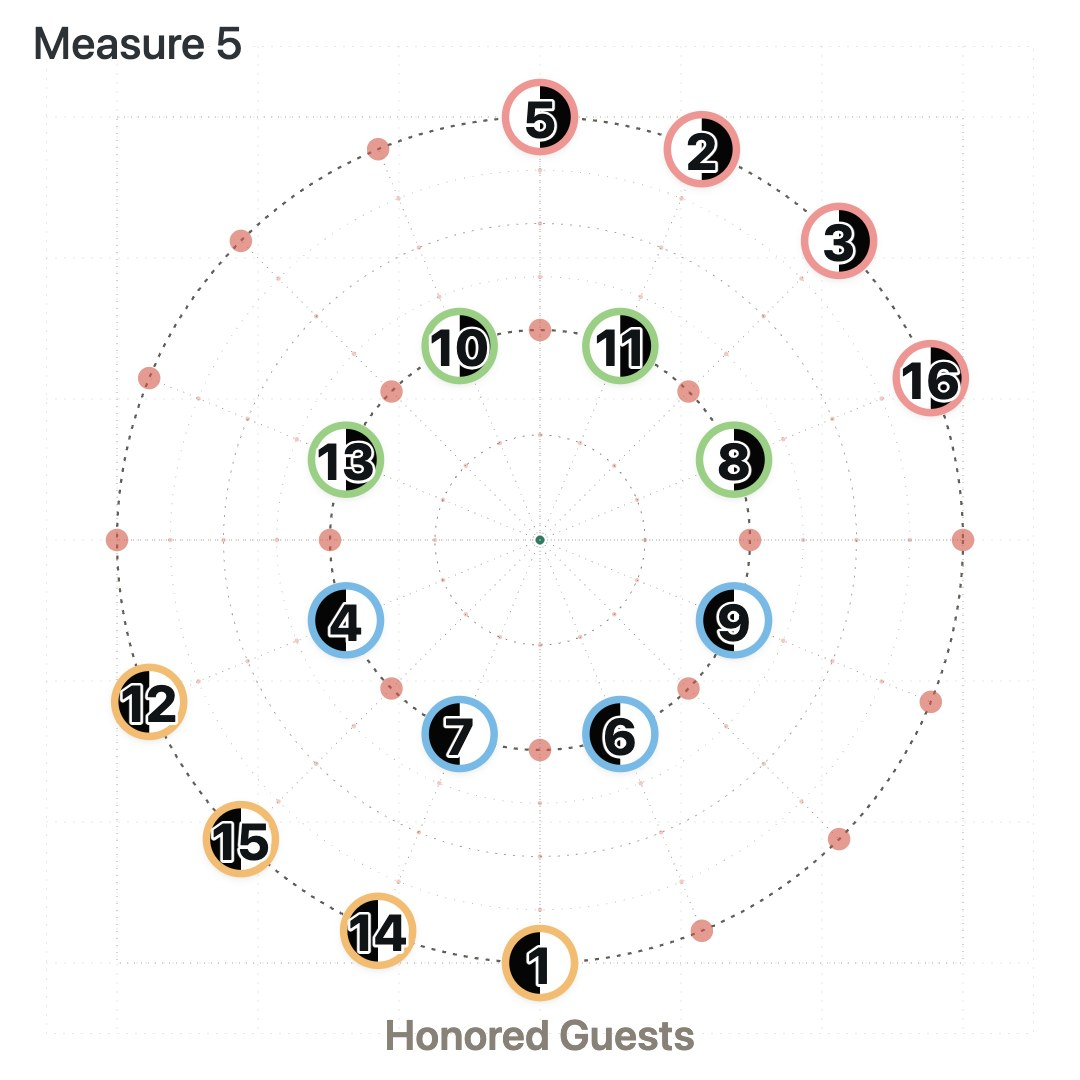
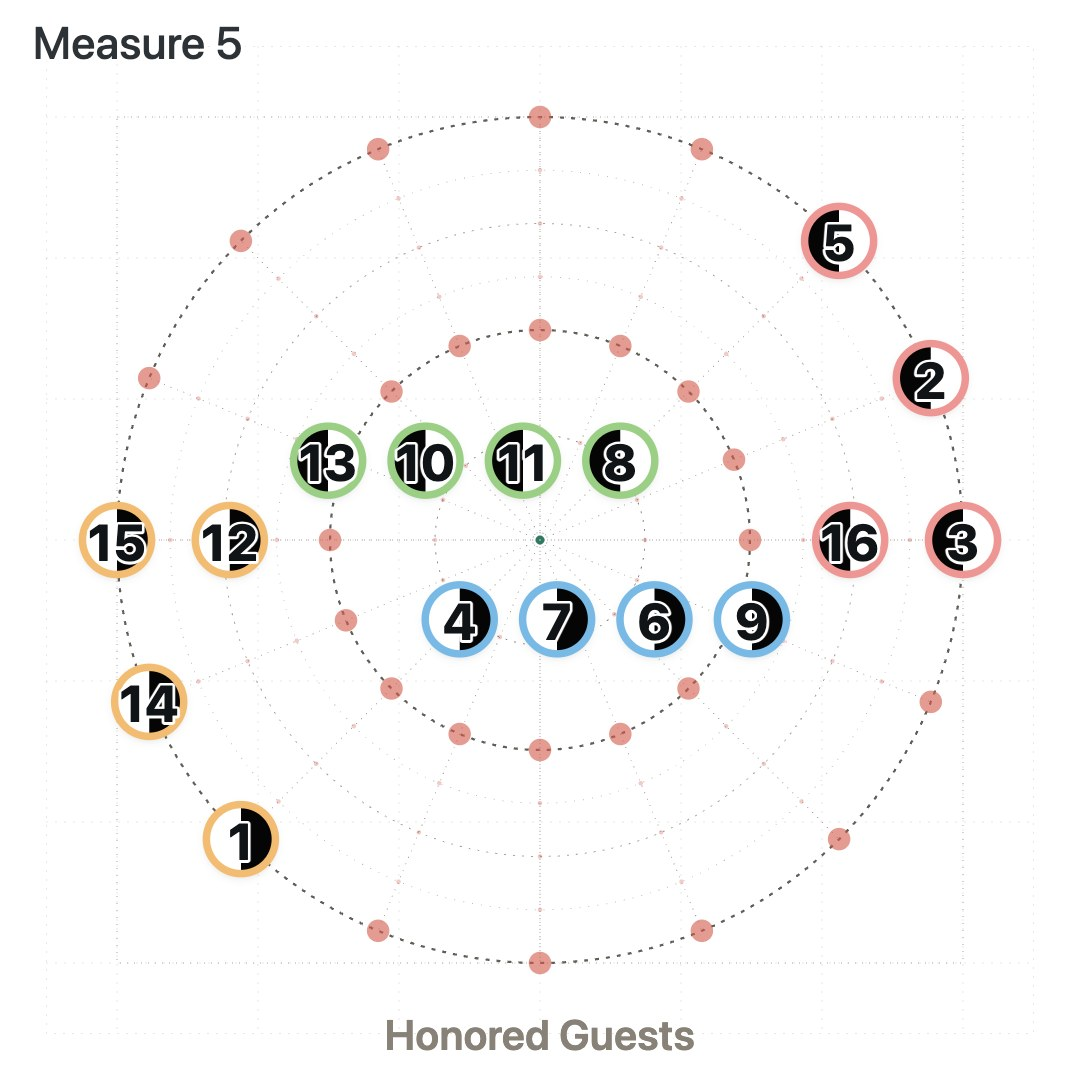
Waltz 14 Swirling Cascade: new Measures 4–5 peel amber/rose onto the outside circle; old 4–6 now 6–8

diff --git a/index.html b/index.html
@@ -4984,13 +4984,13 @@
           const radius = Math.hypot(item.x - CENTER.x, item.y - CENTER.y);
           return { x: fix(CENTER.x + radius * Math.cos(angle)), y: fix(CENTER.y + radius * Math.sin(angle)) };
         };
-        // "Measure 4" (Ariel, 11/23): amber and rose go out to the outside circle, one couple a tape.
+        // "Measure 6" (Ariel, 11/23): amber and rose go out to the outside circle, one couple a tape.
         // Amber takes the 4 tapes left of the south cardinal (nearest the Honored Guests), going up
         // the left side: 1, 14, 15, 12 (12 on the west cardinal). Rose takes the 4 tapes right of the
         // north cardinal, going down the right side: 5, 2, 3, 16 (16 on the east cardinal). Green and
         // blue make two short centered lines a little apart: blue nearer the Honored Guests, green
-        // just behind, each keeping its order across. Facings as in Measure 3. Measures 5 and 6 start here.
-        const swirlMeasure4 = (subtitle = "Measure 4") => {
+        // just behind, each keeping its order across. Facings as in Measure 3. Measures 7 and 8 start here; Measures 4–5 lead into it.
+        const swirlRings = (subtitle = "Measure 6") => {
           const line = frame(subtitle, 1, 4, FIT);
           const byX = [...line.items].sort((a, b) => a.x - b.x).map((item) => item.number);
           const tape = Math.PI / 8;
@@ -5018,6 +5018,45 @@
               // Green behind blue: blue nearer the Honored Guests (Ariel, 11/23).
               item.y = fix(CENTER.y + (color === "green" ? -apart : apart));
             });
+          });
+          return named(line, swirl, subtitle);
+        };
+        // "Measure 4" and "Measure 5" (Ariel, 11/23): amber and rose peel off the line ends onto the
+        // outside circle while green and blue head in toward their Measure 6 rows. Each measure every
+        // amber or rose couple already on the circle travels 1 tape along the line of dance, the next
+        // one in the line steps onto the end tape (west for amber, east for rose), and the rest of
+        // amber and rose shift out along the line into the spots just left. Measure 4: 1 and 5 one
+        // tape on, 14 and 2 on the end tapes; Measure 5: 1, 14, 2 and 5 one more tape, 15 and 3 on
+        // the end tapes. Green and blue step off the line (green behind, blue in front) and go a
+        // third, then two thirds, of the way across to their row spots. The third step is Measure
+        // 6. Facings as in Measure 3.
+        const swirlPeel = (subtitle, step) => {
+          const line = frame(subtitle, 1, 4, FIT);
+          const target = new Map(swirlRings().items.map((item) => [item.number, item]));
+          const slots = [...line.items].sort((a, b) => a.x - b.x).map((item) => ({ x: item.x, y: item.y }));
+          const ends = {
+            amber: { order: [1, 14, 15, 12], slots: [0, 2, 4, 6], endTape: 8 },
+            rose: { order: [5, 2, 3, 16], slots: [15, 13, 11, 9], endTape: 16 },
+          };
+          line.items.forEach((item) => {
+            const to = target.get(item.number);
+            item.groupColor = to.groupColor;
+            item.facingMode = to.facingMode;
+            const side = ends[item.groupColor];
+            if (side) {
+              const i = side.order.indexOf(item.number);
+              if (i >= step) Object.assign(item, slots[side.slots[i - step]]);
+              else {
+                const angle = ((side.endTape - (step - i)) * Math.PI) / 8;
+                item.x = fix(CENTER.x + OUTER_RADIUS * Math.cos(angle));
+                item.y = fix(CENTER.y + OUTER_RADIUS * Math.sin(angle));
+              }
+            } else {
+              // Stepped right off the line (green behind, blue in front) so amber and rose can
+              // shift past, sliding across toward their row spots; the rows close in at Measure 6.
+              item.x = fix(lerp(item.x, to.x, step / 3));
+              item.y = fix(CENTER.y + Math.sign(to.y - CENTER.y) * PIECE_RADIUS * 2.3);
+            }
           });
           return named(line, swirl, subtitle);
         };
@@ -5065,15 +5104,17 @@
               });
               return named(line, swirl, "Measure 3");
             })(),
-            swirlMeasure4(),
-            // "Measure 5" (Ariel, 11/23): amber and rose travel 1 tape along the line of dance
+            swirlPeel("Measure 4", 1),
+            swirlPeel("Measure 5", 2),
+            swirlRings(),
+            // "Measure 7" (Ariel, 11/23): amber and rose travel 1 tape along the line of dance
             // (counterclockwise) on the outside circle; green and blue spread onto the inside circle,
             // every other tape: green fills the north half and blue the south half (the tapes either
             // side of the cardinals, so the 8 sit evenly round, each half keeping its row's order
-            // west to east). Every couple's facing is flipped from Measure 4 (amber and blue follows
+            // west to east). Every couple's facing is flipped from Measure 6 (amber and blue follows
             // now face left, green and rose follows right).
             ...(() => {
-              const shot = swirlMeasure4("Measure 5");
+              const shot = swirlRings("Measure 7");
               const tape = Math.PI / 8;
               const at = (angle, radius) => ({ x: CENTER.x + radius * Math.cos(angle), y: CENTER.y + radius * Math.sin(angle) });
               const perms = (list) => (list.length < 2 ? [list] : list.flatMap((x, i) => perms([...list.slice(0, i), ...list.slice(i + 1)]).map((rest) => [x, ...rest])));
@@ -5093,9 +5134,9 @@
               shot.items.forEach((item) => { item.facingMode = flipped[item.facingMode] ?? item.facingMode; });
               // Except couple 1 (Ariel, 11/23): F backing the line of dance.
               shot.items.find((item) => item.number === 1).facingMode = "cw";
-              // "Measure 6" (Ariel, 11/23), the next measure: everyone travels along the line of dance on
+              // "Measure 8" (Ariel, 11/23), the next measure: everyone travels along the line of dance on
               // their own circle, 1 tape on the outside, 2 on the inside (green and blue).
-              const next = named({ ...structuredClone(shot), items: shot.items.map((item) => ({ ...item, ...turnLod(item, item.groupColor === "green" || item.groupColor === "blue" ? 2 : 1) })) }, swirl, "Measure 6");
+              const next = named({ ...structuredClone(shot), items: shot.items.map((item) => ({ ...item, ...turnLod(item, item.groupColor === "green" || item.groupColor === "blue" ? 2 : 1) })) }, swirl, "Measure 8");
               return [shot, next];
             })(),
           ],
